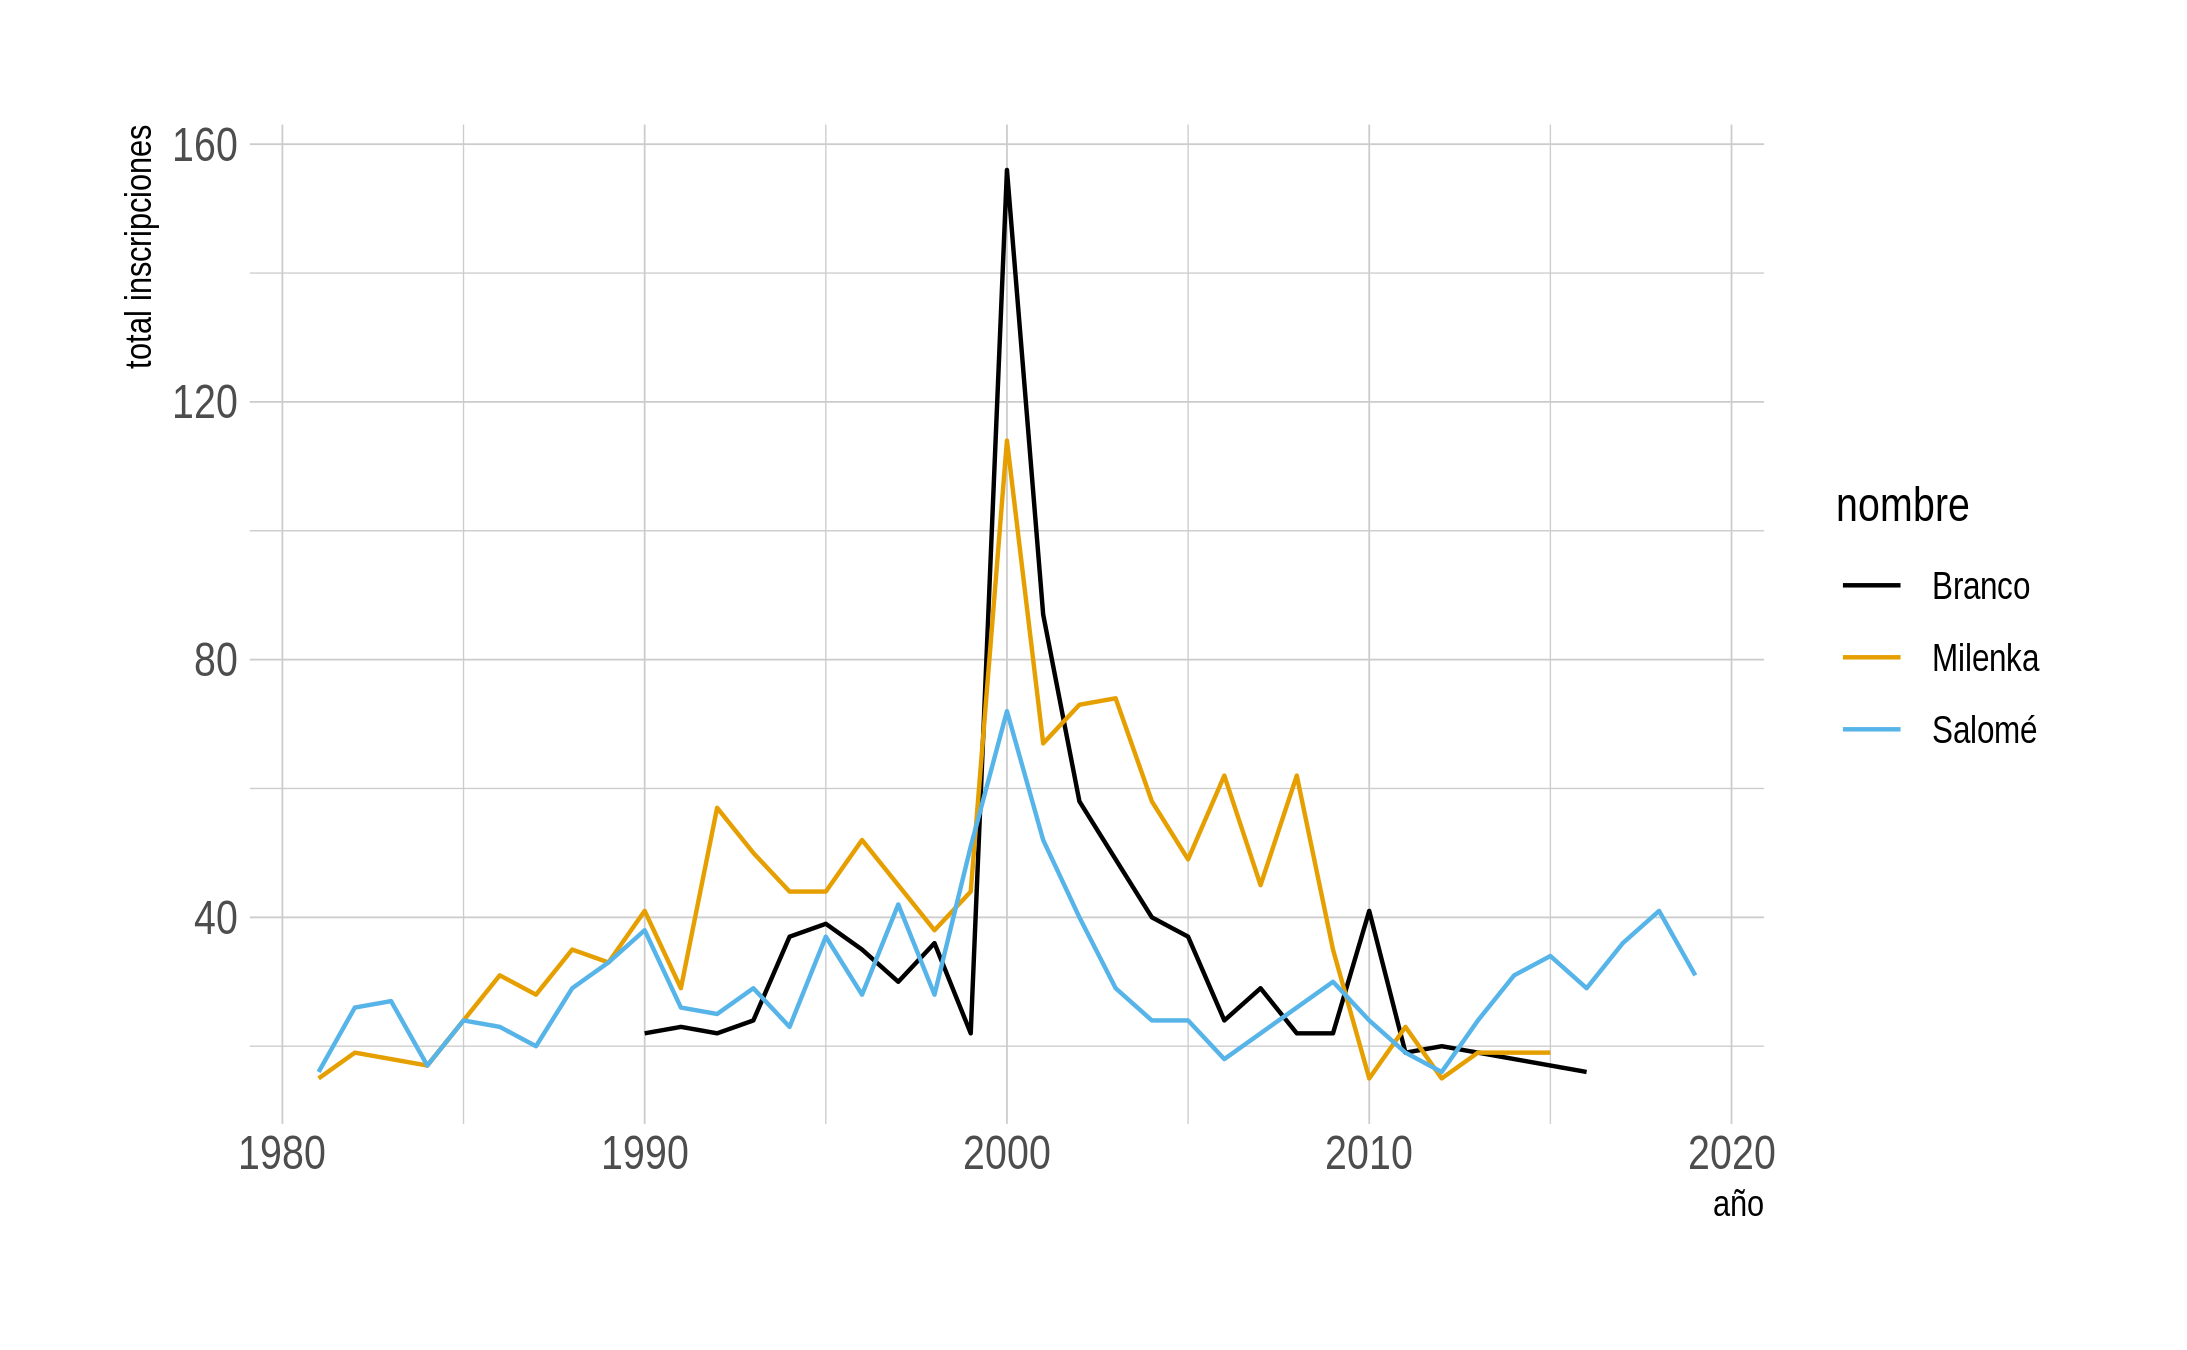
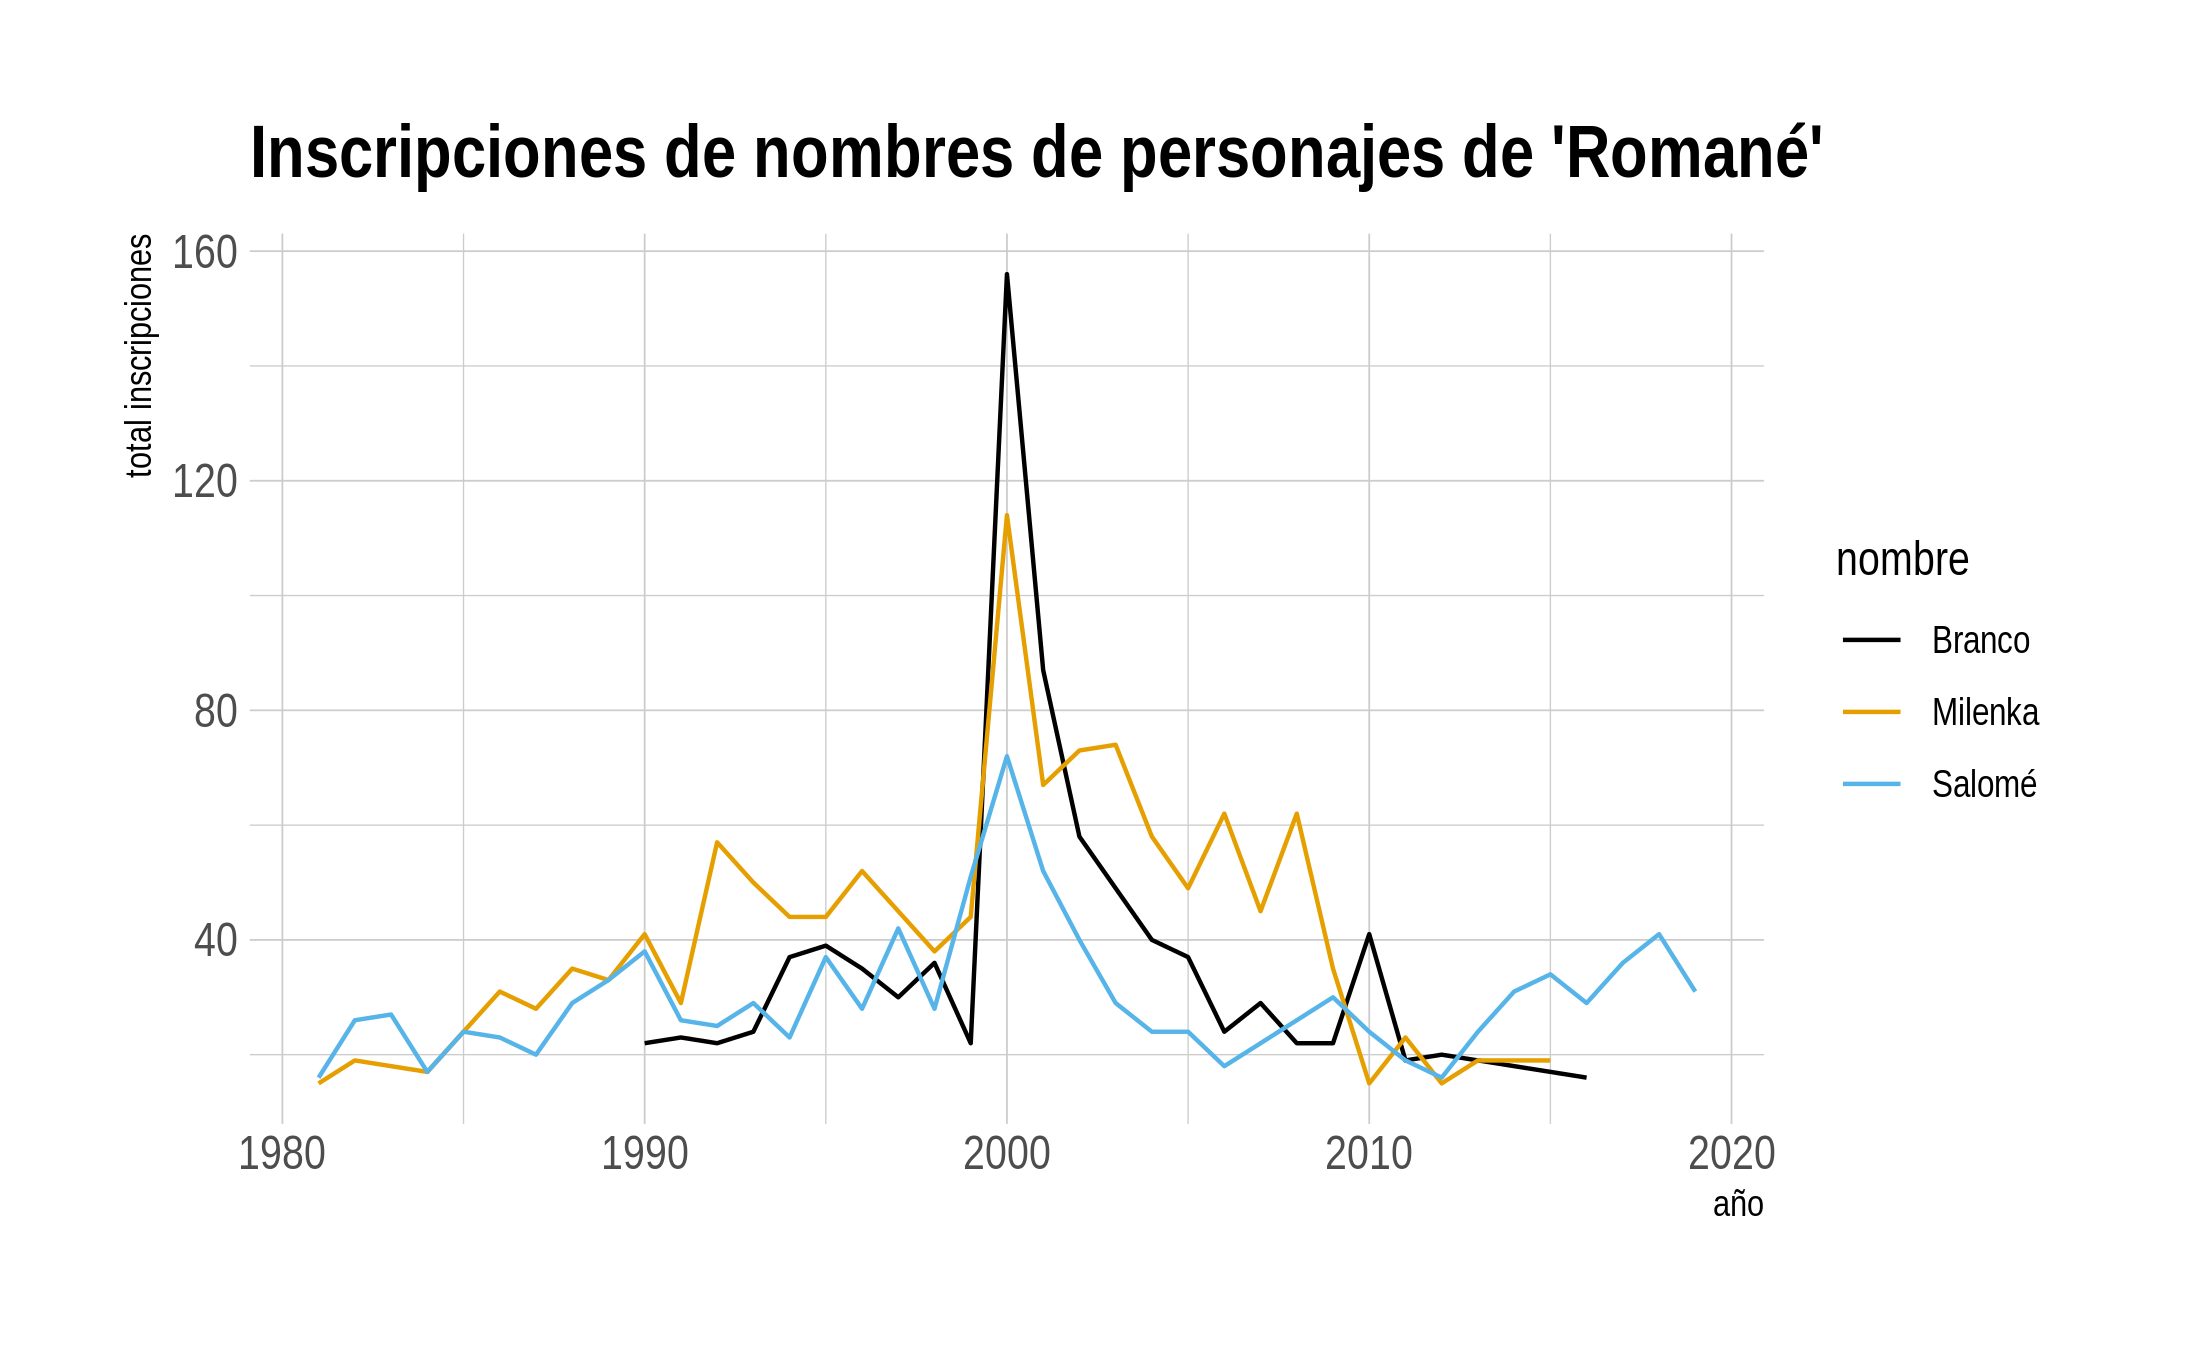
add title to example plots

diff --git a/README.md b/README.md
@@ -7,8 +7,7 @@
 
 [![CRAN
 status](https://www.r-pkg.org/badges/version/guaguas)](https://CRAN.R-project.org/package=guaguas)
-[![Travis build
-status](https://travis-ci.com/rivaquiroga/guaguas.svg?branch=master)](https://travis-ci.com/rivaquiroga/guaguas)
+
 <!-- badges: end -->
 
 Datos de nombres de guaguas (bebés) registrados en Chile entre 1920 y
@@ -67,7 +66,8 @@ guaguas %>%
   ggplot(aes(anio, n, color = fct_reorder2(nombre, n, anio))) + 
   geom_line() +
   scale_color_colorblind() +
-  labs(x = "año", y = "total inscripciones", color = "nombre") +
+  labs(x = "año", y = "total inscripciones", color = "nombre", 
+       title = "Inscripciones de 'Salvador' y 'Augusto' entre 1960 - 1979") +
   theme_ipsum()
 ```
 
@@ -102,7 +102,8 @@ guaguas %>%
   ggplot(aes(anio, n, color = nombre)) + 
   geom_line() +
   scale_color_colorblind() +
-  labs(x = "año", y = "total inscripciones") +
+  labs(x = "año", y = "total inscripciones",
+       title = "Inscripciones de nombres de personajes de 'Romané'") +
   theme_ipsum()
 ```
 
@@ -122,7 +123,8 @@ guaguas %>%
   ggplot(aes(anio, n, color = fct_reorder2(nombre, anio, n))) +
   geom_line() +
   scale_color_colorblind() +
-  labs(x = "año", y = "total inscripciones", color = "nombre") +
+  labs(x = "año", y = "total inscripciones", color = "nombre",
+       title = "El efecto 'Backstreet Boys'") +
   theme_ipsum()
 ```
 
